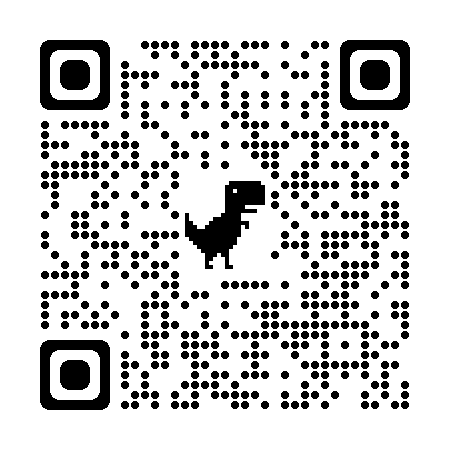
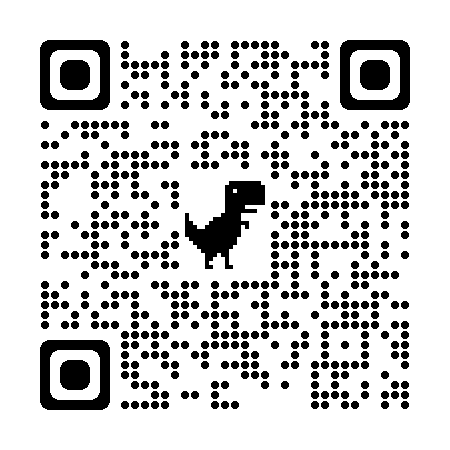
QR Code converted to sfdc.co

diff --git a/force-apps/deploy/main/default/lwc/instructor/instructor.html b/force-apps/deploy/main/default/lwc/instructor/instructor.html
@@ -26,7 +26,7 @@
 									<c-image path-in-sr="QR.png" max-width="100%"></c-image>
 								</lightning-layout-item>
 								<lightning-layout-item size="12" class="slds-align_absolute-center">
-									<a href="https://bit.ly/thStudentReporting" style="letter-spacing: 7px">https://bit.ly/thStudentReporting</a>
+									<a href="https://sfdc.co/thStudentReporting" style="letter-spacing: 7px" target="_blank">https://sfdc.co/thStudentReporting</a>
 								</lightning-layout-item>
 							</lightning-layout>
 						</template>
